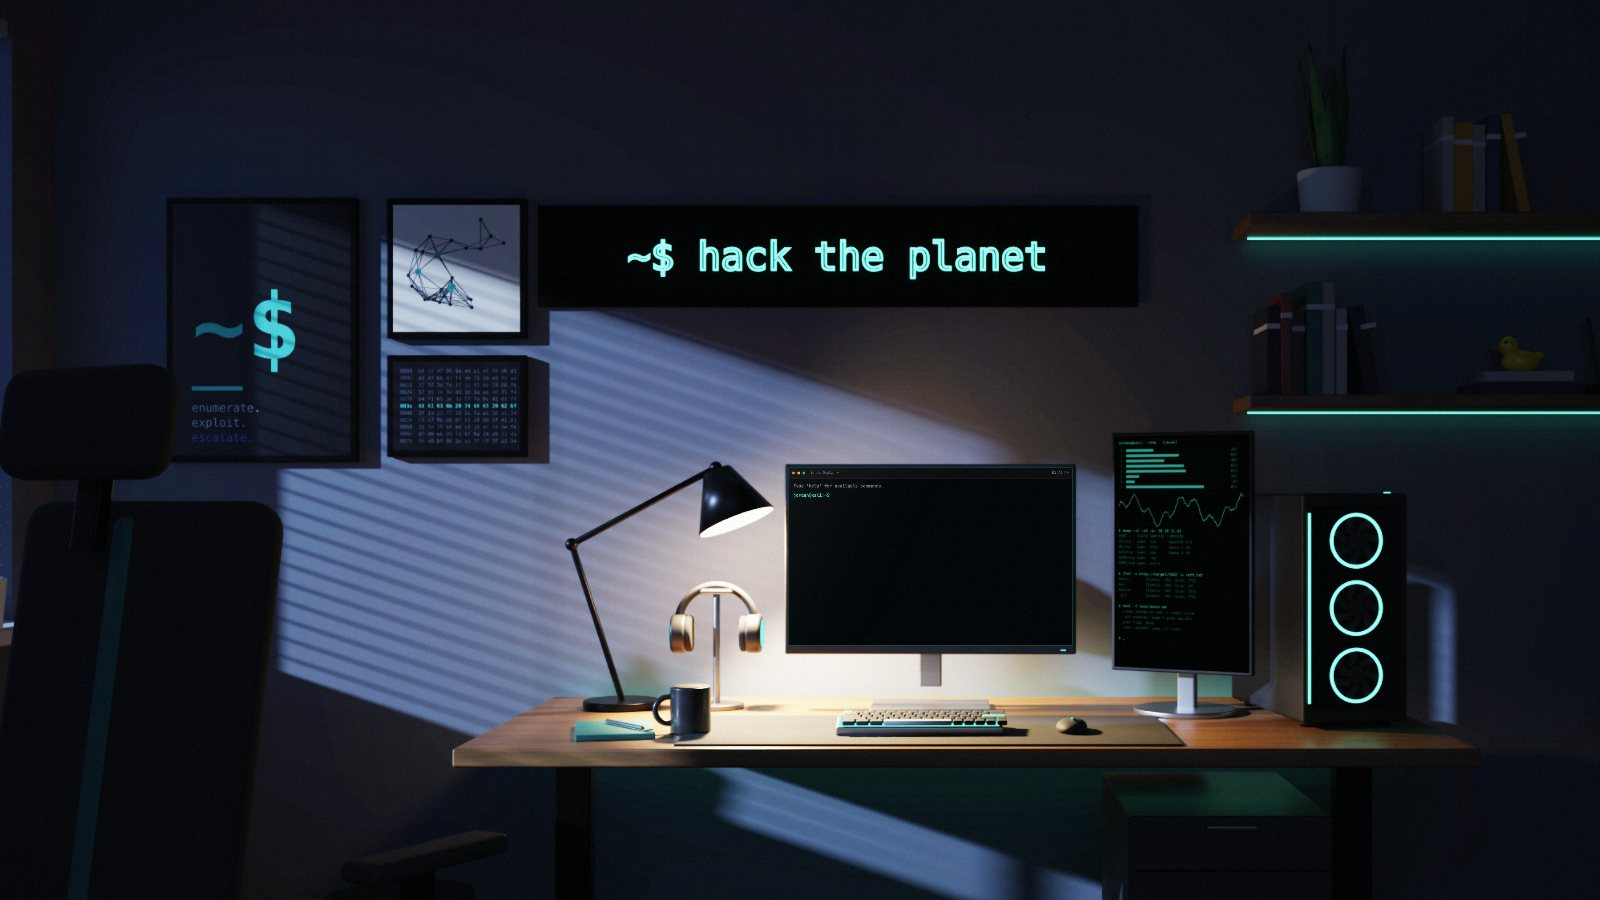
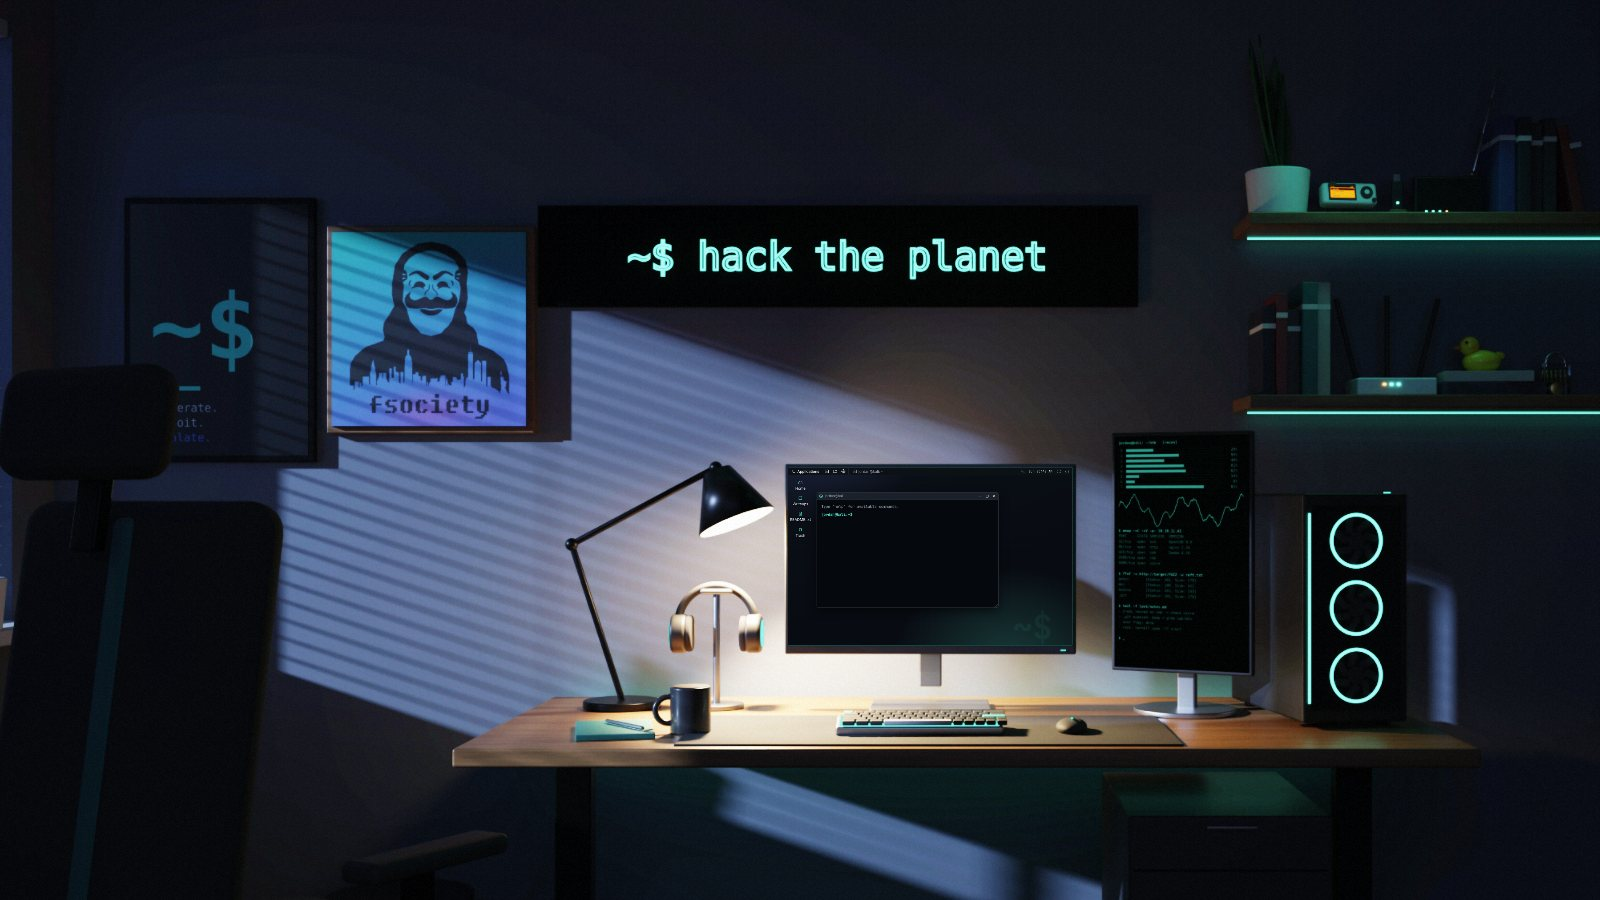
Render the shelf gadgets and fsociety painting into the room
New 4K wide-view textures with the gadgets on the shelves and the recoloured
fsociety canvas on the wall; hover labels and click notes for each. Texture
and script versions bumped so browsers refetch, and the About page preview
image is regenerated.

Claude-Session: https://claude.ai/code/session_01AVQ5KF4LXjuQnpsBRm2hrh

diff --git a/index.html b/index.html
@@ -12,8 +12,8 @@
         gtag('js', new Date());
         gtag('config', 'G-P056MVQVGM');
     </script>
-    <link rel="preload" as="fetch" href="assets/room/room.json?v=4" crossorigin>
-    <link rel="stylesheet" href="assets/css/desktop.css?v=15">
+    <link rel="preload" as="fetch" href="assets/room/room.json?v=5" crossorigin>
+    <link rel="stylesheet" href="assets/css/desktop.css?v=16">
     <style>
         :root {
             --bg: #0b0e14;
@@ -423,9 +423,9 @@
             setInterval(tick, 20000);
         })();
     </script>
-    <script src="assets/js/terminal.js?v=15"></script>
-    <script src="assets/js/desktop.js?v=15"></script>
-    <script src="assets/js/kali-tools.js?v=15"></script>
-    <script src="assets/js/room.js?v=15"></script>
+    <script src="assets/js/terminal.js?v=16"></script>
+    <script src="assets/js/desktop.js?v=16"></script>
+    <script src="assets/js/kali-tools.js?v=16"></script>
+    <script src="assets/js/room.js?v=16"></script>
 </body>
 </html>

diff --git a/assets/js/room.js b/assets/js/room.js
@@ -133,7 +133,7 @@
     // ------------------------------------------------------------------
     var inline = window.__ROOM__ || null;
     var BASE = "assets/room/";
-    var VERSION = "4";   // bump when the textures are re-rendered, so browsers refetch them
+    var VERSION = "5";   // bump when the textures are re-rendered, so browsers refetch them
     var meta = null;
     var loaded = { wide: false, close: false };
     var maxTex = gl.getParameter(gl.MAX_TEXTURE_SIZE);
